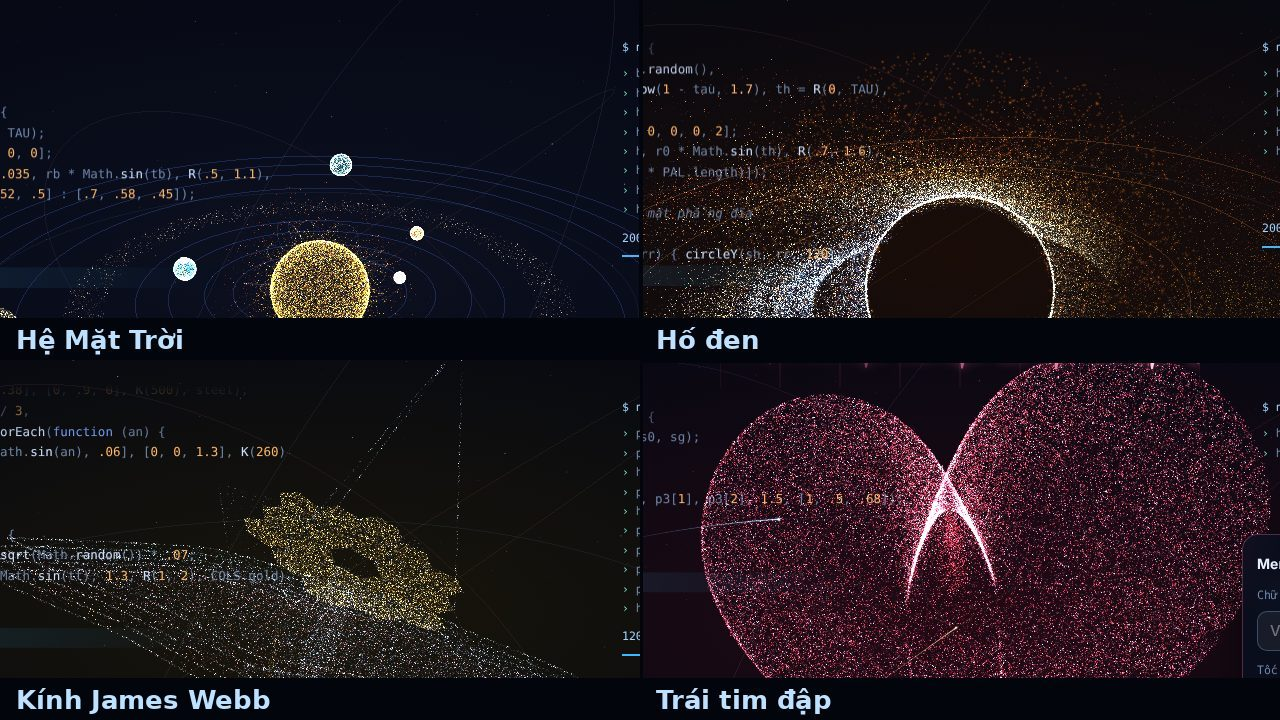
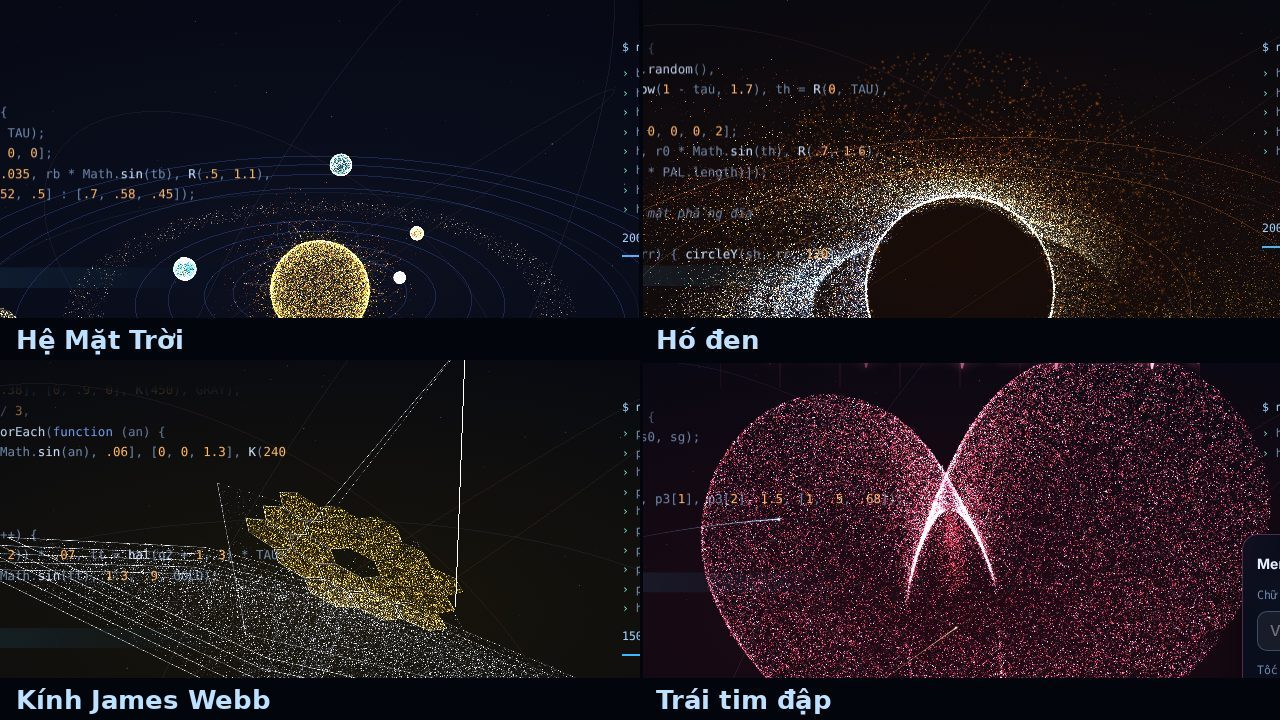
Quỹ đạo: kính James Webb 150.000 hạt, viền đủ các cạnh, màu thật, bớt nhiễu
Claude-Session: https://claude.ai/code/session_01WjocpLNyqEoMhycKB6eQ6X

Changed region(s): [[0.0, 0.6722, 0.4375, 0.9472], [0.0, 0.6111, 0.2188, 0.6417]]

diff --git a/public/archive/files/quy-dao/quy-dao.html b/public/archive/files/quy-dao/quy-dao.html
@@ -484,57 +484,53 @@ canvas.drag { cursor: grabbing; }
   }
   function jwst() {
     var sh = new Shape(); sh.T = function (v) { return rotXZ(rotY(v, -.6), .42, 0); };
-    // chỉ dùng hạt, không dùng đường kẻ: mặt phẳng, thanh và khung đều là hạt dày
-    var rod = function (a, b, n, col, size) { for (var i = 0; i < n; i++) { var t = Math.random(); sh.pt(a[0] + (b[0] - a[0]) * t, a[1] + (b[1] - a[1]) * t, a[2] + (b[2] - a[2]) * t, size || R(.9, 1.5), col); } };
-    var panel = function (o, a, b, n, col, size) { for (var i = 0; i < n; i++) { var u = Math.random(), v = Math.random(); sh.pt(o[0] + a[0] * u + b[0] * v, o[1] + a[1] * u + b[1] * v, o[2] + a[2] * u + b[2] * v, size || R(.6, 1.2), col); } };
-    var steel = [.62, .7, .82], slate = [.3, .35, .46];
-    // 1. tấm chắn nắng 5 lớp hình diều (21 x 14 m): lớp dưới hướng Mặt Trời nóng nhất, các lớp trên nguội dần
+    var SILVER = [.84, .87, .94], GOLD = [1, .79, .34], GRAY = [.58, .62, .7], SOLAR = [.33, .44, .78];   // bốn màu thật của kính
+    // Halton: rải điểm đều trên mặt, không vón cục nên không bị nhiễu hạt
+    var hal = function (i, b) { var f = 1, r = 0; while (i > 0) { f /= b; r += f * (i % b); i = Math.floor(i / b); } return r; };
+    var hc = 0;
+    var panel = function (o, a, b, n, col) { for (var i = 0; i < n; i++, hc++) { var u = hal(hc + 1, 2), v = hal(hc + 1, 3); sh.pt(o[0] + a[0] * u + b[0] * v, o[1] + a[1] * u + b[1] * v, o[2] + a[2] * u + b[2] * v, .85, col); } };
+    var line = function (a, b, n, col, size) { for (var i = 0; i <= n; i++) { var t = i / n; sh.pt(a[0] + (b[0] - a[0]) * t, a[1] + (b[1] - a[1]) * t, a[2] + (b[2] - a[2]) * t, size || 1.1, col); } sh.seg(a, b); };   // viền: hạt đều tay + đường kẻ
+    // 1. tấm chắn nắng 5 lớp hình diều (21 x 14 m), viền sáng đủ cả sáu cạnh
     var P = [[-1.9, 0], [-.65, .95], [.65, .95], [1.9, 0], [.65, -.95], [-.65, -.95]];
-    var LAYER = [[1, .68, .52], [.98, .64, .84], [.8, .68, 1], [.68, .78, 1], [.62, .9, 1]];
+    var inside = function (x, z) { var s = 1.9 - Math.abs(x); return Math.abs(z) <= (Math.abs(x) < .65 ? .95 : .95 * s / 1.25); };
     var wave = function (x, z) { return .04 * (1 - x * x / 3.6 - z * z / .9) + .008 * Math.sin(5 * x + 3 * z); };
     for (var L = 0; L < 5; L++) {
-      var y = L * .05, k = 1 - L * .014, col = LAYER[L];
-      for (var i = 0; i < K(9000); i++) {
-        var t = Math.floor(Math.random() * 6), A = P[t], B = P[(t + 1) % 6], u = Math.random(), v = Math.random(); if (u + v > 1) { u = 1 - u; v = 1 - v; }
-        var x = k * (A[0] * u + B[0] * v), z = k * (A[1] * u + B[1] * v); sh.pt(x, y + wave(x, z), z, R(.6, 1.2), col);
-      }
-      for (var e = 0; e < 6; e++) {                                                          // mép sáng đều cả sáu cạnh
-        var a0 = P[e], b0 = P[(e + 1) % 6];
-        for (var n = 0; n < K(260); n++) { var f = Math.random(), ex = k * (a0[0] + (b0[0] - a0[0]) * f), ez = k * (a0[1] + (b0[1] - a0[1]) * f); sh.pt(ex, y + wave(ex, ez), ez, R(1, 1.8), COLS.white); }
-      }
+      var y = L * .05, k = 1 - L * .014, h = 0, i = 1;
+      while (h < K(11000)) { var x = (hal(i, 2) * 2 - 1) * 1.9 * k, z = (hal(i, 3) * 2 - 1) * .95 * k; i++; if (inside(x / k, z / k)) { sh.pt(x, y + wave(x, z), z, .8, SILVER); h++; } }
+      for (var e = 0; e < 6; e++) { var a0 = P[e], b0 = P[(e + 1) % 6]; line([k * a0[0], y + wave(k * a0[0], k * a0[1]), k * a0[1]], [k * b0[0], y + wave(k * b0[0], k * b0[1]), k * b0[1]], K(220), COLS.white, 1.3); }
     }
-    [[1.9, 0], [-1.9, 0], [0, .95], [0, -.95]].forEach(function (p) { rod([p[0] * .94, .02, p[1] * .94], [p[0] * 1.1, .02, p[1] * 1.1], K(60), steel, 1.3); });   // thanh căng
+    [[1.9, 0], [-1.9, 0], [0, .95], [0, -.95]].forEach(function (p) { line([p[0] * .94, .02, p[1] * .94], [p[0] * 1.1, .02, p[1] * 1.1], K(30), GRAY, 1.3); });   // thanh căng
     // 2. tháp nối, xuyên qua tâm các lớp chắn nắng
-    for (var h = 0; h < K(3200); h++) { var th = R(0, TAU); sh.pt(.07 * Math.cos(th), R(-.5, .5), .07 * Math.sin(th), R(.8, 1.3), steel); }
-    // 3. thân vệ tinh phía nóng: hộp, tấm pin mặt trời, ăng-ten, cánh cân bằng
-    panel([-.34, -.56, -.26], [.68, 0, 0], [0, 0, .52], K(1500), slate); panel([-.34, -.26, -.26], [.68, 0, 0], [0, 0, .52], K(1500), steel);
-    panel([-.34, -.56, -.26], [.68, 0, 0], [0, .3, 0], K(1000), steel); panel([-.34, -.56, .26], [.68, 0, 0], [0, .3, 0], K(1000), steel);
-    panel([-.34, -.56, -.26], [0, 0, .52], [0, .3, 0], K(800), steel); panel([.34, -.56, -.26], [0, 0, .52], [0, .3, 0], K(800), steel);
-    panel([.36, -.42, -.3], [.8, 0, 0], [0, 0, .6], K(3600), [.35, .5, 1]);
-    panel([.36, -.42, -.3], [.8, 0, 0], [0, 0, .06], K(300), COLS.gold);
-    for (var d = 0; d < K(500); d++) { var dt = R(0, TAU), dr = Math.sqrt(Math.random()) * .12; sh.pt(-.12 + dr * Math.cos(dt), -.6, dr * Math.sin(dt), R(1, 1.8), COLS.white); }
-    rod([0, -.4, -.26], [0, -.4, -.75], K(120), steel); panel([-.02, -.2, -.85], [.04, 0, 0], [0, -.4, .2], K(500), COLS.amber);
-    // 4. kính: gương chính 18 mảnh lục giác mạ vàng, lưng gương, ba thanh đỡ gương phụ
+    for (var j = 0; j < K(2800); j++) { var th = hal(j + 1, 2) * TAU; sh.pt(.07 * Math.cos(th), -.5 + hal(j + 1, 3), .07 * Math.sin(th), .85, GRAY); }
+    // 3. thân vệ tinh phía nóng, tấm pin mặt trời, ăng-ten, cánh cân bằng
+    var B = [-.34, -.56, -.26], bw = [.68, 0, 0], bh = [0, .3, 0], bd = [0, 0, .52];
+    panel(B, bw, bd, K(1400), GRAY); panel([B[0], B[1] + .3, B[2]], bw, bd, K(1400), GRAY);
+    panel(B, bw, bh, K(900), GRAY); panel([B[0], B[1], B[2] + .52], bw, bh, K(900), GRAY); panel(B, bd, bh, K(700), GRAY); panel([B[0] + .68, B[1], B[2]], bd, bh, K(700), GRAY);
+    panel([.36, -.42, -.3], [.8, 0, 0], [0, 0, .6], K(3200), SOLAR);
+    for (var d = 0; d < K(500); d++) { var dr = Math.sqrt(hal(d + 1, 2)) * .12, dt = hal(d + 1, 3) * TAU; sh.pt(-.12 + dr * Math.cos(dt), -.6, dr * Math.sin(dt), .9, SILVER); }
+    line([0, -.4, -.26], [0, -.4, -.75], K(100), GRAY); panel([-.02, -.2, -.85], [.04, 0, 0], [0, -.4, .2], K(500), GRAY);
+    // 4. kính: gương chính 18 mảnh lục giác mạ vàng hơi lõm, lưng gương, ba thanh đỡ gương phụ
     sub(sh, function (v) { var w = rotXZ(v, -1.31, 0); return [w[0], w[1] + .56, w[2] + .05]; }, function () {
-      var s = .15, d2 = Math.sqrt(3) * s * 1.025, cs = [], gold = function () { return Math.random() < .55 ? COLS.gold : COLS.hot; };
+      var s = .15, d2 = Math.sqrt(3) * s * 1.025, cs = [];
       for (var k2 = 0; k2 < 6; k2++) { var a2 = k2 * Math.PI / 3; cs.push([d2 * Math.cos(a2), d2 * Math.sin(a2)]); }
       for (var k3 = 0; k3 < 6; k3++) { var a3 = k3 * Math.PI / 3; cs.push([2 * d2 * Math.cos(a3), 2 * d2 * Math.sin(a3)]); cs.push([Math.sqrt(3) * d2 * Math.cos(a3 + Math.PI / 6), Math.sqrt(3) * d2 * Math.sin(a3 + Math.PI / 6)]); }
       sub(sh, function (v) { return [v[0], v[1], v[2] + .1 * (v[0] * v[0] + v[1] * v[1])]; }, function () {   // mặt gương hơi lõm
         cs.forEach(function (c) {
-          for (var i = 0; i < K(1500); i++) {
-            var t = Math.floor(Math.random() * 6), a = Math.PI / 6 + t * Math.PI / 3, b = a + Math.PI / 3, u = Math.random(), v = Math.random(); if (u + v > 1) { u = 1 - u; v = 1 - v; }
-            sh.pt(c[0] + s * .96 * (Math.cos(a) * u + Math.cos(b) * v), c[1] + s * .96 * (Math.sin(a) * u + Math.sin(b) * v), 0, R(.7, 1.3), gold());
+          var V = []; for (var q = 0; q < 6; q++) { var an = Math.PI / 6 + q * Math.PI / 3; V.push([c[0] + s * .97 * Math.cos(an), c[1] + s * .97 * Math.sin(an), 0]); }
+          for (var i2 = 0; i2 < K(1800); i2++) {
+            var t = (i2 % 3) * 2, j2 = Math.floor(i2 / 3) + 1, u = hal(j2, 2), v = hal(j2, 3);   // sáu cạnh chia thành ba hình thoi, mỗi hình rải đều
+            sh.pt(c[0] + (V[t][0] - c[0]) * u + (V[(t + 2) % 6][0] - c[0]) * v, c[1] + (V[t][1] - c[1]) * u + (V[(t + 2) % 6][1] - c[1]) * v, 0, .85, GOLD);
           }
-          for (var e = 0; e < 6; e++) { var ea = Math.PI / 6 + e * Math.PI / 3, eb = ea + Math.PI / 3; rod([c[0] + s * .96 * Math.cos(ea), c[1] + s * .96 * Math.sin(ea), 0], [c[0] + s * .96 * Math.cos(eb), c[1] + s * .96 * Math.sin(eb), 0], K(16), COLS.white, 1.2); }
+          for (var e = 0; e < 6; e++) line(V[e], V[(e + 1) % 6], K(18), COLS.hot, 1.2);                  // viền từng mảnh gương
         });
       });
-      panel([-.7, -.78, -.12], [1.4, 0, 0], [0, 1.56, 0], K(4500), slate);                         // lưng gương và hai cánh gập
-      rod([-.7, -.78, -.12], [.7, -.78, -.12], K(120), steel); rod([-.7, .78, -.12], [.7, .78, -.12], K(120), steel);
-      rod([-.7, -.78, -.12], [-.7, .78, -.12], K(120), steel); rod([.7, -.78, -.12], [.7, .78, -.12], K(120), steel);
-      panel([-.3, -.45, -.5], [.6, 0, 0], [0, .9, 0], K(1500), [.4, .45, .58]);                      // khối thiết bị khoa học phía sau
-      panel([-.3, -.45, -.12], [0, 0, -.38], [0, .9, 0], K(500), steel); panel([.3, -.45, -.12], [0, 0, -.38], [0, .9, 0], K(500), steel);
-      [Math.PI / 2, Math.PI / 2 + TAU / 3, Math.PI / 2 + 2 * TAU / 3].forEach(function (an) { rod([.6 * Math.cos(an), .6 * Math.sin(an), .06], [0, 0, 1.3], K(260), steel, 1.1); });   // ba thanh đỡ gương phụ
-      for (var q = 0; q < K(700); q++) { var tt = R(0, TAU), rr = Math.sqrt(Math.random()) * .07; sh.pt(rr * Math.cos(tt), rr * Math.sin(tt), 1.3, R(1, 2), COLS.gold); }
+      var fx = .7, fy = .78;                                                                           // khung lưng gương
+      panel([-fx, -fy, -.12], [2 * fx, 0, 0], [0, 2 * fy, 0], K(4000), GRAY);
+      [[-fx, -fy, fx, -fy], [-fx, fy, fx, fy], [-fx, -fy, -fx, fy], [fx, -fy, fx, fy]].forEach(function (e) { line([e[0], e[1], -.12], [e[2], e[3], -.12], K(130), SILVER, 1.2); });
+      panel([-.3, -.45, -.5], [.6, 0, 0], [0, .9, 0], K(1300), GRAY);                                  // khối thiết bị khoa học phía sau
+      panel([-.3, -.45, -.12], [0, 0, -.38], [0, .9, 0], K(450), GRAY); panel([.3, -.45, -.12], [0, 0, -.38], [0, .9, 0], K(450), GRAY);
+      [Math.PI / 2, Math.PI / 2 + TAU / 3, Math.PI / 2 + 2 * TAU / 3].forEach(function (an) { line([.6 * Math.cos(an), .6 * Math.sin(an), .06], [0, 0, 1.3], K(240), SILVER, 1.1); });   // ba thanh đỡ gương phụ
+      for (var q2 = 0; q2 < K(600); q2++) { var rr = Math.sqrt(hal(q2 + 1, 2)) * .07, tt = hal(q2 + 1, 3) * TAU; sh.pt(rr * Math.cos(tt), rr * Math.sin(tt), 1.3, .9, GOLD); }
     });
     return sh;
   }
@@ -728,7 +724,7 @@ canvas.drag { cursor: grabbing; }
     { fn: iss, n: 200000, file: "iss.js", name: "Trạm vũ trụ quốc tế (ISS)", sub: "Dài khoảng 109 m, bay ở độ cao khoảng 400 km, mỗi ngày quay quanh Trái Đất khoảng 16 vòng", tint: "#08172b", tilt: [0, 0], lc: BASE_LC, build: function () { return dbl(iss); } },
     { fn: starship, n: 200000, file: "starship.js", name: "Starship và Super Heavy", sub: "Cao khoảng 121 m, đường kính 9 m, bộ tên lửa tái sử dụng hoàn toàn của SpaceX", tint: "#10151f", tilt: [0, 0], lc: BASE_LC, build: function () { return dbl(starship); } },
     { fn: saturnV, n: 200000, file: "saturn_v.js", name: "Saturn V", sub: "Cao 110,6 m, đưa người Mỹ lên Mặt Trăng trong chương trình Apollo", tint: "#18130f", tilt: [0, 0], lc: BASE_LC, build: function () { return dbl(saturnV); } },
-    { fn: jwst, n: 120000, file: "jwst.js", name: "Kính thiên văn James Webb", sub: "Gương chính 6,5 m gồm 18 mảnh mạ vàng, đặt cách Trái Đất khoảng 1,5 triệu km", tint: "#19150a", tilt: [0, 0], lc: BASE_LC, build: function () { return dbl(jwst); } },
+    { fn: jwst, n: 150000, calm: 1, file: "jwst.js", name: "Kính thiên văn James Webb", sub: "Gương chính 6,5 m gồm 18 mảnh mạ vàng, đặt cách Trái Đất khoảng 1,5 triệu km", tint: "#19150a", tilt: [0, 0], lc: [.84, .87, .94], build: function () { return dbl(jwst); } },
     { fn: galaxy, n: 200000, file: "galaxy.js", name: "Thiên hà xoắn ốc", sub: "Bốn cánh tay xoắn ốc quanh nhân sáng, giống dải Ngân Hà của chúng ta", tint: "#150b24", tilt: [0, 0], lc: BASE_LC, build: function () { return dbl(galaxy); } },
     { fn: blackhole, n: 200000, file: "black_hole.js", name: "Hố đen", sub: "Bóng tối ở giữa, đĩa vật chất xoay quanh, ánh sáng bị uốn cong thành vành, hạt bị kéo dãn rơi vào trong", tint: "#1a0d08", tilt: [.45, .05], lc: [1, .6, .25], build: function () { return dbl(blackhole); } },
     { fn: sputnik, n: 100000, file: "sputnik.js", name: "Sputnik 1", sub: "Vệ tinh nhân tạo đầu tiên, phóng năm 1957, hình cầu rộng khoảng 58 cm", tint: "#0a1226", tilt: [0, 0], lc: BASE_LC, build: function () { return dbl(sputnik); } },
@@ -830,7 +826,7 @@ canvas.drag { cursor: grabbing; }
   var shapes = [], motionOn = false, monS = 0;
   function getShape(i) { if (!shapes[i]) { CNT = META[i].n; D = CNT / 100000; shapes[i] = finalize(META[i].build(), i === HI, CNT); } return shapes[i]; }
   var V3 = function (a, b, c) { return new THREE.Vector3(a, b, c); };
-  var U = { uMix: { value: 0 }, uTime: { value: 0 }, uMT: { value: 0 }, uMon: { value: 0 }, uPx: { value: dpr }, uRot: { value: 0 }, uShadow: { value: .5 },
+  var U = { uMix: { value: 0 }, uTime: { value: 0 }, uMT: { value: 0 }, uMon: { value: 0 }, uPx: { value: dpr }, uKA: { value: 0 }, uKB: { value: 0 }, uRot: { value: 0 }, uShadow: { value: .5 },
     uTA: { value: new THREE.Vector2() }, uTB: { value: new THREE.Vector2() }, uCR: { value: V3(1, 0, 0) }, uCU: { value: V3(0, 1, 0) }, uCF: { value: V3(0, 0, 1) },
     uLA: { value: V3(.45, .72, 1) }, uLB: { value: V3(.45, .72, 1) }, uBeat: { value: 0 }, uHA: { value: 0 }, uHB: { value: 0 }, uGain: { value: .8 } };
 
@@ -841,14 +837,14 @@ canvas.drag { cursor: grabbing; }
     uniforms: U, transparent: true, depthWrite: false, blending: THREE.AdditiveBlending,
     vertexShader: [
       "attribute vec3 aA;attribute vec3 aB;attribute vec4 aSA;attribute vec4 aSB;attribute vec4 aMA;attribute vec4 aMB;attribute vec4 aPA;attribute vec4 aPB;attribute float aR;",
-      "uniform float uMix,uTime,uMT,uMon,uPx,uBeat,uHA,uHB,uShadow;uniform vec2 uTA,uTB;varying vec3 vCol;varying float vAl;varying vec3 vSt;",
+      "uniform float uMix,uTime,uMT,uMon,uPx,uBeat,uHA,uHB,uShadow,uKA,uKB;uniform vec2 uTA,uTB;varying vec3 vCol;varying float vAl;varying vec3 vSt;",
       GLM,
       "void main(){float m=clamp((uMix-aR*.45)/.55,0.,1.);m=m*m*(3.-2.*m);float sw=sin(3.14159*m);",
       " float fa,fb,f2;vec3 pa=place(aA,aMA,aPA,uTA,uMT,fa),pb=place(aB,aMB,aPB,uTB,uMT,fb);vec3 p=mix(pa,pb,m);",
       " float sA=step(4.5,aMA.z)*step(aMA.z,5.5),sB=step(4.5,aMB.z)*step(aMB.z,5.5),sM=mix(sA,sB,m);vec3 dp=vec3(0.);",
       " if(sA+sB>.5){vec3 qa=place(aA,aMA,aPA,uTA,uMT+.08,f2),qb=place(aB,aMB,aPB,uTB,uMT+.08,f2);dp=mix((qa-pa)*sA,(qb-pb)*sB,m);}",
       " p+=vec3(sin(aR*61.+uTime*1.7),cos(aR*43.+uTime*1.3),sin(aR*29.-uTime*1.5))*sw*.55;",
-      " p+=vec3(sin(uTime*.9+aR*91.),cos(uTime*.8+aR*57.),sin(uTime*1.1+aR*33.))*.004;p*=1.+mix(uHA,uHB,m)*uBeat*.085;",
+      " float cm=mix(uKA,uKB,m);p+=vec3(sin(uTime*.9+aR*91.),cos(uTime*.8+aR*57.),sin(uTime*1.1+aR*33.))*.004*(1.-cm);p*=1.+mix(uHA,uHB,m)*uBeat*.085;",
       "",
       " float occ=mix(step(1.5,aPA.w)*step(aPA.w,2.5),step(1.5,aPB.w)*step(aPB.w,2.5),m);",
       " vec3 vv=(modelViewMatrix*vec4(vec3(p.z,0.,-p.x),0.)).xyz;float dop=clamp(vv.z/(length(vv)+1e-4),-1.,1.)*occ;",
@@ -857,7 +853,7 @@ canvas.drag { cursor: grabbing; }
       " dop+=mix(step(.5,aPA.w)*step(aPA.w,1.5),step(.5,aPB.w)*step(aPB.w,1.5),m)*step(8.5,mix(aMA.z,aMB.z,m))*clamp(-(mv.x-cv.x)/(.9*sc),-1.,1.);",
       " float vis=1.-occ*step(mv.z,cv.z)*(1.-smoothstep(uShadow*sc*.96,uShadow*sc*1.05,dist));",
       " vec4 S=mix(aSA,aSB,m);vCol=S.yzw*vec3(1.-.2*dop,1.-.04*dop,1.+.3*dop)*(1.+.6*dop);",
-      " vAl=(.72+.28*sin(uTime*2.2+aR*140.))*vis*mix(1.,mix(fa,fb,m),uMon);",
+      " vAl=mix(.8+.12*sin(uTime*2.2+aR*140.),.95,cm)*vis*mix(1.,mix(fa,fb,m),uMon);",
       " vec2 vd=(modelViewMatrix*vec4(dp,0.)).xy;float vl=length(vd);vSt=vec3(vl>1e-5?vd/vl:vec2(1.,0.),clamp(vl*16.,0.,3.4)*uMon*sM);",
       " gl_PointSize=S.x*uPx*(1.+sw*.5+mix(uHA,uHB,m)*uBeat*.7)*(4.8/-mv.z)*1.5*(1.+vSt.z*.7);gl_Position=projectionMatrix*mv;}"
     ].join("\n"),
@@ -937,6 +933,7 @@ canvas.drag { cursor: grabbing; }
     pg.setAttribute("aMA", A.MA); pg.setAttribute("aMB", B.MA); pg.setAttribute("aPA", A.PA); pg.setAttribute("aPB", B.PA);
     lg.setAttribute("aA", A.lp); lg.setAttribute("aB", B.lp); lg.setAttribute("aMA", A.lM); lg.setAttribute("aMB", B.lM); lg.setAttribute("aPA", A.lP); lg.setAttribute("aPB", B.lP);
     pg.setDrawRange(0, Math.max(A.n, B.n));
+    U.uKA.value = ma.calm ? 1 : 0; U.uKB.value = mb.calm ? 1 : 0;
     U.uHA.value = a === HI ? 1 : 0; U.uHB.value = b === HI ? 1 : 0;
     U.uTA.value.set(ma.tilt[0], ma.tilt[1]); U.uTB.value.set(mb.tilt[0], mb.tilt[1]);
     U.uLA.value.set(ma.lc[0], ma.lc[1], ma.lc[2]); U.uLB.value.set(mb.lc[0], mb.lc[1], mb.lc[2]);

diff --git a/public/quy-dao/index.html b/public/quy-dao/index.html
@@ -484,57 +484,53 @@ canvas.drag { cursor: grabbing; }
   }
   function jwst() {
     var sh = new Shape(); sh.T = function (v) { return rotXZ(rotY(v, -.6), .42, 0); };
-    // chỉ dùng hạt, không dùng đường kẻ: mặt phẳng, thanh và khung đều là hạt dày
-    var rod = function (a, b, n, col, size) { for (var i = 0; i < n; i++) { var t = Math.random(); sh.pt(a[0] + (b[0] - a[0]) * t, a[1] + (b[1] - a[1]) * t, a[2] + (b[2] - a[2]) * t, size || R(.9, 1.5), col); } };
-    var panel = function (o, a, b, n, col, size) { for (var i = 0; i < n; i++) { var u = Math.random(), v = Math.random(); sh.pt(o[0] + a[0] * u + b[0] * v, o[1] + a[1] * u + b[1] * v, o[2] + a[2] * u + b[2] * v, size || R(.6, 1.2), col); } };
-    var steel = [.62, .7, .82], slate = [.3, .35, .46];
-    // 1. tấm chắn nắng 5 lớp hình diều (21 x 14 m): lớp dưới hướng Mặt Trời nóng nhất, các lớp trên nguội dần
+    var SILVER = [.84, .87, .94], GOLD = [1, .79, .34], GRAY = [.58, .62, .7], SOLAR = [.33, .44, .78];   // bốn màu thật của kính
+    // Halton: rải điểm đều trên mặt, không vón cục nên không bị nhiễu hạt
+    var hal = function (i, b) { var f = 1, r = 0; while (i > 0) { f /= b; r += f * (i % b); i = Math.floor(i / b); } return r; };
+    var hc = 0;
+    var panel = function (o, a, b, n, col) { for (var i = 0; i < n; i++, hc++) { var u = hal(hc + 1, 2), v = hal(hc + 1, 3); sh.pt(o[0] + a[0] * u + b[0] * v, o[1] + a[1] * u + b[1] * v, o[2] + a[2] * u + b[2] * v, .85, col); } };
+    var line = function (a, b, n, col, size) { for (var i = 0; i <= n; i++) { var t = i / n; sh.pt(a[0] + (b[0] - a[0]) * t, a[1] + (b[1] - a[1]) * t, a[2] + (b[2] - a[2]) * t, size || 1.1, col); } sh.seg(a, b); };   // viền: hạt đều tay + đường kẻ
+    // 1. tấm chắn nắng 5 lớp hình diều (21 x 14 m), viền sáng đủ cả sáu cạnh
     var P = [[-1.9, 0], [-.65, .95], [.65, .95], [1.9, 0], [.65, -.95], [-.65, -.95]];
-    var LAYER = [[1, .68, .52], [.98, .64, .84], [.8, .68, 1], [.68, .78, 1], [.62, .9, 1]];
+    var inside = function (x, z) { var s = 1.9 - Math.abs(x); return Math.abs(z) <= (Math.abs(x) < .65 ? .95 : .95 * s / 1.25); };
     var wave = function (x, z) { return .04 * (1 - x * x / 3.6 - z * z / .9) + .008 * Math.sin(5 * x + 3 * z); };
     for (var L = 0; L < 5; L++) {
-      var y = L * .05, k = 1 - L * .014, col = LAYER[L];
-      for (var i = 0; i < K(9000); i++) {
-        var t = Math.floor(Math.random() * 6), A = P[t], B = P[(t + 1) % 6], u = Math.random(), v = Math.random(); if (u + v > 1) { u = 1 - u; v = 1 - v; }
-        var x = k * (A[0] * u + B[0] * v), z = k * (A[1] * u + B[1] * v); sh.pt(x, y + wave(x, z), z, R(.6, 1.2), col);
-      }
-      for (var e = 0; e < 6; e++) {                                                          // mép sáng đều cả sáu cạnh
-        var a0 = P[e], b0 = P[(e + 1) % 6];
-        for (var n = 0; n < K(260); n++) { var f = Math.random(), ex = k * (a0[0] + (b0[0] - a0[0]) * f), ez = k * (a0[1] + (b0[1] - a0[1]) * f); sh.pt(ex, y + wave(ex, ez), ez, R(1, 1.8), COLS.white); }
-      }
+      var y = L * .05, k = 1 - L * .014, h = 0, i = 1;
+      while (h < K(11000)) { var x = (hal(i, 2) * 2 - 1) * 1.9 * k, z = (hal(i, 3) * 2 - 1) * .95 * k; i++; if (inside(x / k, z / k)) { sh.pt(x, y + wave(x, z), z, .8, SILVER); h++; } }
+      for (var e = 0; e < 6; e++) { var a0 = P[e], b0 = P[(e + 1) % 6]; line([k * a0[0], y + wave(k * a0[0], k * a0[1]), k * a0[1]], [k * b0[0], y + wave(k * b0[0], k * b0[1]), k * b0[1]], K(220), COLS.white, 1.3); }
     }
-    [[1.9, 0], [-1.9, 0], [0, .95], [0, -.95]].forEach(function (p) { rod([p[0] * .94, .02, p[1] * .94], [p[0] * 1.1, .02, p[1] * 1.1], K(60), steel, 1.3); });   // thanh căng
+    [[1.9, 0], [-1.9, 0], [0, .95], [0, -.95]].forEach(function (p) { line([p[0] * .94, .02, p[1] * .94], [p[0] * 1.1, .02, p[1] * 1.1], K(30), GRAY, 1.3); });   // thanh căng
     // 2. tháp nối, xuyên qua tâm các lớp chắn nắng
-    for (var h = 0; h < K(3200); h++) { var th = R(0, TAU); sh.pt(.07 * Math.cos(th), R(-.5, .5), .07 * Math.sin(th), R(.8, 1.3), steel); }
-    // 3. thân vệ tinh phía nóng: hộp, tấm pin mặt trời, ăng-ten, cánh cân bằng
-    panel([-.34, -.56, -.26], [.68, 0, 0], [0, 0, .52], K(1500), slate); panel([-.34, -.26, -.26], [.68, 0, 0], [0, 0, .52], K(1500), steel);
-    panel([-.34, -.56, -.26], [.68, 0, 0], [0, .3, 0], K(1000), steel); panel([-.34, -.56, .26], [.68, 0, 0], [0, .3, 0], K(1000), steel);
-    panel([-.34, -.56, -.26], [0, 0, .52], [0, .3, 0], K(800), steel); panel([.34, -.56, -.26], [0, 0, .52], [0, .3, 0], K(800), steel);
-    panel([.36, -.42, -.3], [.8, 0, 0], [0, 0, .6], K(3600), [.35, .5, 1]);
-    panel([.36, -.42, -.3], [.8, 0, 0], [0, 0, .06], K(300), COLS.gold);
-    for (var d = 0; d < K(500); d++) { var dt = R(0, TAU), dr = Math.sqrt(Math.random()) * .12; sh.pt(-.12 + dr * Math.cos(dt), -.6, dr * Math.sin(dt), R(1, 1.8), COLS.white); }
-    rod([0, -.4, -.26], [0, -.4, -.75], K(120), steel); panel([-.02, -.2, -.85], [.04, 0, 0], [0, -.4, .2], K(500), COLS.amber);
-    // 4. kính: gương chính 18 mảnh lục giác mạ vàng, lưng gương, ba thanh đỡ gương phụ
+    for (var j = 0; j < K(2800); j++) { var th = hal(j + 1, 2) * TAU; sh.pt(.07 * Math.cos(th), -.5 + hal(j + 1, 3), .07 * Math.sin(th), .85, GRAY); }
+    // 3. thân vệ tinh phía nóng, tấm pin mặt trời, ăng-ten, cánh cân bằng
+    var B = [-.34, -.56, -.26], bw = [.68, 0, 0], bh = [0, .3, 0], bd = [0, 0, .52];
+    panel(B, bw, bd, K(1400), GRAY); panel([B[0], B[1] + .3, B[2]], bw, bd, K(1400), GRAY);
+    panel(B, bw, bh, K(900), GRAY); panel([B[0], B[1], B[2] + .52], bw, bh, K(900), GRAY); panel(B, bd, bh, K(700), GRAY); panel([B[0] + .68, B[1], B[2]], bd, bh, K(700), GRAY);
+    panel([.36, -.42, -.3], [.8, 0, 0], [0, 0, .6], K(3200), SOLAR);
+    for (var d = 0; d < K(500); d++) { var dr = Math.sqrt(hal(d + 1, 2)) * .12, dt = hal(d + 1, 3) * TAU; sh.pt(-.12 + dr * Math.cos(dt), -.6, dr * Math.sin(dt), .9, SILVER); }
+    line([0, -.4, -.26], [0, -.4, -.75], K(100), GRAY); panel([-.02, -.2, -.85], [.04, 0, 0], [0, -.4, .2], K(500), GRAY);
+    // 4. kính: gương chính 18 mảnh lục giác mạ vàng hơi lõm, lưng gương, ba thanh đỡ gương phụ
     sub(sh, function (v) { var w = rotXZ(v, -1.31, 0); return [w[0], w[1] + .56, w[2] + .05]; }, function () {
-      var s = .15, d2 = Math.sqrt(3) * s * 1.025, cs = [], gold = function () { return Math.random() < .55 ? COLS.gold : COLS.hot; };
+      var s = .15, d2 = Math.sqrt(3) * s * 1.025, cs = [];
       for (var k2 = 0; k2 < 6; k2++) { var a2 = k2 * Math.PI / 3; cs.push([d2 * Math.cos(a2), d2 * Math.sin(a2)]); }
       for (var k3 = 0; k3 < 6; k3++) { var a3 = k3 * Math.PI / 3; cs.push([2 * d2 * Math.cos(a3), 2 * d2 * Math.sin(a3)]); cs.push([Math.sqrt(3) * d2 * Math.cos(a3 + Math.PI / 6), Math.sqrt(3) * d2 * Math.sin(a3 + Math.PI / 6)]); }
       sub(sh, function (v) { return [v[0], v[1], v[2] + .1 * (v[0] * v[0] + v[1] * v[1])]; }, function () {   // mặt gương hơi lõm
         cs.forEach(function (c) {
-          for (var i = 0; i < K(1500); i++) {
-            var t = Math.floor(Math.random() * 6), a = Math.PI / 6 + t * Math.PI / 3, b = a + Math.PI / 3, u = Math.random(), v = Math.random(); if (u + v > 1) { u = 1 - u; v = 1 - v; }
-            sh.pt(c[0] + s * .96 * (Math.cos(a) * u + Math.cos(b) * v), c[1] + s * .96 * (Math.sin(a) * u + Math.sin(b) * v), 0, R(.7, 1.3), gold());
+          var V = []; for (var q = 0; q < 6; q++) { var an = Math.PI / 6 + q * Math.PI / 3; V.push([c[0] + s * .97 * Math.cos(an), c[1] + s * .97 * Math.sin(an), 0]); }
+          for (var i2 = 0; i2 < K(1800); i2++) {
+            var t = (i2 % 3) * 2, j2 = Math.floor(i2 / 3) + 1, u = hal(j2, 2), v = hal(j2, 3);   // sáu cạnh chia thành ba hình thoi, mỗi hình rải đều
+            sh.pt(c[0] + (V[t][0] - c[0]) * u + (V[(t + 2) % 6][0] - c[0]) * v, c[1] + (V[t][1] - c[1]) * u + (V[(t + 2) % 6][1] - c[1]) * v, 0, .85, GOLD);
           }
-          for (var e = 0; e < 6; e++) { var ea = Math.PI / 6 + e * Math.PI / 3, eb = ea + Math.PI / 3; rod([c[0] + s * .96 * Math.cos(ea), c[1] + s * .96 * Math.sin(ea), 0], [c[0] + s * .96 * Math.cos(eb), c[1] + s * .96 * Math.sin(eb), 0], K(16), COLS.white, 1.2); }
+          for (var e = 0; e < 6; e++) line(V[e], V[(e + 1) % 6], K(18), COLS.hot, 1.2);                  // viền từng mảnh gương
         });
       });
-      panel([-.7, -.78, -.12], [1.4, 0, 0], [0, 1.56, 0], K(4500), slate);                         // lưng gương và hai cánh gập
-      rod([-.7, -.78, -.12], [.7, -.78, -.12], K(120), steel); rod([-.7, .78, -.12], [.7, .78, -.12], K(120), steel);
-      rod([-.7, -.78, -.12], [-.7, .78, -.12], K(120), steel); rod([.7, -.78, -.12], [.7, .78, -.12], K(120), steel);
-      panel([-.3, -.45, -.5], [.6, 0, 0], [0, .9, 0], K(1500), [.4, .45, .58]);                      // khối thiết bị khoa học phía sau
-      panel([-.3, -.45, -.12], [0, 0, -.38], [0, .9, 0], K(500), steel); panel([.3, -.45, -.12], [0, 0, -.38], [0, .9, 0], K(500), steel);
-      [Math.PI / 2, Math.PI / 2 + TAU / 3, Math.PI / 2 + 2 * TAU / 3].forEach(function (an) { rod([.6 * Math.cos(an), .6 * Math.sin(an), .06], [0, 0, 1.3], K(260), steel, 1.1); });   // ba thanh đỡ gương phụ
-      for (var q = 0; q < K(700); q++) { var tt = R(0, TAU), rr = Math.sqrt(Math.random()) * .07; sh.pt(rr * Math.cos(tt), rr * Math.sin(tt), 1.3, R(1, 2), COLS.gold); }
+      var fx = .7, fy = .78;                                                                           // khung lưng gương
+      panel([-fx, -fy, -.12], [2 * fx, 0, 0], [0, 2 * fy, 0], K(4000), GRAY);
+      [[-fx, -fy, fx, -fy], [-fx, fy, fx, fy], [-fx, -fy, -fx, fy], [fx, -fy, fx, fy]].forEach(function (e) { line([e[0], e[1], -.12], [e[2], e[3], -.12], K(130), SILVER, 1.2); });
+      panel([-.3, -.45, -.5], [.6, 0, 0], [0, .9, 0], K(1300), GRAY);                                  // khối thiết bị khoa học phía sau
+      panel([-.3, -.45, -.12], [0, 0, -.38], [0, .9, 0], K(450), GRAY); panel([.3, -.45, -.12], [0, 0, -.38], [0, .9, 0], K(450), GRAY);
+      [Math.PI / 2, Math.PI / 2 + TAU / 3, Math.PI / 2 + 2 * TAU / 3].forEach(function (an) { line([.6 * Math.cos(an), .6 * Math.sin(an), .06], [0, 0, 1.3], K(240), SILVER, 1.1); });   // ba thanh đỡ gương phụ
+      for (var q2 = 0; q2 < K(600); q2++) { var rr = Math.sqrt(hal(q2 + 1, 2)) * .07, tt = hal(q2 + 1, 3) * TAU; sh.pt(rr * Math.cos(tt), rr * Math.sin(tt), 1.3, .9, GOLD); }
     });
     return sh;
   }
@@ -728,7 +724,7 @@ canvas.drag { cursor: grabbing; }
     { fn: iss, n: 200000, file: "iss.js", name: "Trạm vũ trụ quốc tế (ISS)", sub: "Dài khoảng 109 m, bay ở độ cao khoảng 400 km, mỗi ngày quay quanh Trái Đất khoảng 16 vòng", tint: "#08172b", tilt: [0, 0], lc: BASE_LC, build: function () { return dbl(iss); } },
     { fn: starship, n: 200000, file: "starship.js", name: "Starship và Super Heavy", sub: "Cao khoảng 121 m, đường kính 9 m, bộ tên lửa tái sử dụng hoàn toàn của SpaceX", tint: "#10151f", tilt: [0, 0], lc: BASE_LC, build: function () { return dbl(starship); } },
     { fn: saturnV, n: 200000, file: "saturn_v.js", name: "Saturn V", sub: "Cao 110,6 m, đưa người Mỹ lên Mặt Trăng trong chương trình Apollo", tint: "#18130f", tilt: [0, 0], lc: BASE_LC, build: function () { return dbl(saturnV); } },
-    { fn: jwst, n: 120000, file: "jwst.js", name: "Kính thiên văn James Webb", sub: "Gương chính 6,5 m gồm 18 mảnh mạ vàng, đặt cách Trái Đất khoảng 1,5 triệu km", tint: "#19150a", tilt: [0, 0], lc: BASE_LC, build: function () { return dbl(jwst); } },
+    { fn: jwst, n: 150000, calm: 1, file: "jwst.js", name: "Kính thiên văn James Webb", sub: "Gương chính 6,5 m gồm 18 mảnh mạ vàng, đặt cách Trái Đất khoảng 1,5 triệu km", tint: "#19150a", tilt: [0, 0], lc: [.84, .87, .94], build: function () { return dbl(jwst); } },
     { fn: galaxy, n: 200000, file: "galaxy.js", name: "Thiên hà xoắn ốc", sub: "Bốn cánh tay xoắn ốc quanh nhân sáng, giống dải Ngân Hà của chúng ta", tint: "#150b24", tilt: [0, 0], lc: BASE_LC, build: function () { return dbl(galaxy); } },
     { fn: blackhole, n: 200000, file: "black_hole.js", name: "Hố đen", sub: "Bóng tối ở giữa, đĩa vật chất xoay quanh, ánh sáng bị uốn cong thành vành, hạt bị kéo dãn rơi vào trong", tint: "#1a0d08", tilt: [.45, .05], lc: [1, .6, .25], build: function () { return dbl(blackhole); } },
     { fn: sputnik, n: 100000, file: "sputnik.js", name: "Sputnik 1", sub: "Vệ tinh nhân tạo đầu tiên, phóng năm 1957, hình cầu rộng khoảng 58 cm", tint: "#0a1226", tilt: [0, 0], lc: BASE_LC, build: function () { return dbl(sputnik); } },
@@ -830,7 +826,7 @@ canvas.drag { cursor: grabbing; }
   var shapes = [], motionOn = false, monS = 0;
   function getShape(i) { if (!shapes[i]) { CNT = META[i].n; D = CNT / 100000; shapes[i] = finalize(META[i].build(), i === HI, CNT); } return shapes[i]; }
   var V3 = function (a, b, c) { return new THREE.Vector3(a, b, c); };
-  var U = { uMix: { value: 0 }, uTime: { value: 0 }, uMT: { value: 0 }, uMon: { value: 0 }, uPx: { value: dpr }, uRot: { value: 0 }, uShadow: { value: .5 },
+  var U = { uMix: { value: 0 }, uTime: { value: 0 }, uMT: { value: 0 }, uMon: { value: 0 }, uPx: { value: dpr }, uKA: { value: 0 }, uKB: { value: 0 }, uRot: { value: 0 }, uShadow: { value: .5 },
     uTA: { value: new THREE.Vector2() }, uTB: { value: new THREE.Vector2() }, uCR: { value: V3(1, 0, 0) }, uCU: { value: V3(0, 1, 0) }, uCF: { value: V3(0, 0, 1) },
     uLA: { value: V3(.45, .72, 1) }, uLB: { value: V3(.45, .72, 1) }, uBeat: { value: 0 }, uHA: { value: 0 }, uHB: { value: 0 }, uGain: { value: .8 } };
 
@@ -841,14 +837,14 @@ canvas.drag { cursor: grabbing; }
     uniforms: U, transparent: true, depthWrite: false, blending: THREE.AdditiveBlending,
     vertexShader: [
       "attribute vec3 aA;attribute vec3 aB;attribute vec4 aSA;attribute vec4 aSB;attribute vec4 aMA;attribute vec4 aMB;attribute vec4 aPA;attribute vec4 aPB;attribute float aR;",
-      "uniform float uMix,uTime,uMT,uMon,uPx,uBeat,uHA,uHB,uShadow;uniform vec2 uTA,uTB;varying vec3 vCol;varying float vAl;varying vec3 vSt;",
+      "uniform float uMix,uTime,uMT,uMon,uPx,uBeat,uHA,uHB,uShadow,uKA,uKB;uniform vec2 uTA,uTB;varying vec3 vCol;varying float vAl;varying vec3 vSt;",
       GLM,
       "void main(){float m=clamp((uMix-aR*.45)/.55,0.,1.);m=m*m*(3.-2.*m);float sw=sin(3.14159*m);",
       " float fa,fb,f2;vec3 pa=place(aA,aMA,aPA,uTA,uMT,fa),pb=place(aB,aMB,aPB,uTB,uMT,fb);vec3 p=mix(pa,pb,m);",
       " float sA=step(4.5,aMA.z)*step(aMA.z,5.5),sB=step(4.5,aMB.z)*step(aMB.z,5.5),sM=mix(sA,sB,m);vec3 dp=vec3(0.);",
       " if(sA+sB>.5){vec3 qa=place(aA,aMA,aPA,uTA,uMT+.08,f2),qb=place(aB,aMB,aPB,uTB,uMT+.08,f2);dp=mix((qa-pa)*sA,(qb-pb)*sB,m);}",
       " p+=vec3(sin(aR*61.+uTime*1.7),cos(aR*43.+uTime*1.3),sin(aR*29.-uTime*1.5))*sw*.55;",
-      " p+=vec3(sin(uTime*.9+aR*91.),cos(uTime*.8+aR*57.),sin(uTime*1.1+aR*33.))*.004;p*=1.+mix(uHA,uHB,m)*uBeat*.085;",
+      " float cm=mix(uKA,uKB,m);p+=vec3(sin(uTime*.9+aR*91.),cos(uTime*.8+aR*57.),sin(uTime*1.1+aR*33.))*.004*(1.-cm);p*=1.+mix(uHA,uHB,m)*uBeat*.085;",
       "",
       " float occ=mix(step(1.5,aPA.w)*step(aPA.w,2.5),step(1.5,aPB.w)*step(aPB.w,2.5),m);",
       " vec3 vv=(modelViewMatrix*vec4(vec3(p.z,0.,-p.x),0.)).xyz;float dop=clamp(vv.z/(length(vv)+1e-4),-1.,1.)*occ;",
@@ -857,7 +853,7 @@ canvas.drag { cursor: grabbing; }
       " dop+=mix(step(.5,aPA.w)*step(aPA.w,1.5),step(.5,aPB.w)*step(aPB.w,1.5),m)*step(8.5,mix(aMA.z,aMB.z,m))*clamp(-(mv.x-cv.x)/(.9*sc),-1.,1.);",
       " float vis=1.-occ*step(mv.z,cv.z)*(1.-smoothstep(uShadow*sc*.96,uShadow*sc*1.05,dist));",
       " vec4 S=mix(aSA,aSB,m);vCol=S.yzw*vec3(1.-.2*dop,1.-.04*dop,1.+.3*dop)*(1.+.6*dop);",
-      " vAl=(.72+.28*sin(uTime*2.2+aR*140.))*vis*mix(1.,mix(fa,fb,m),uMon);",
+      " vAl=mix(.8+.12*sin(uTime*2.2+aR*140.),.95,cm)*vis*mix(1.,mix(fa,fb,m),uMon);",
       " vec2 vd=(modelViewMatrix*vec4(dp,0.)).xy;float vl=length(vd);vSt=vec3(vl>1e-5?vd/vl:vec2(1.,0.),clamp(vl*16.,0.,3.4)*uMon*sM);",
       " gl_PointSize=S.x*uPx*(1.+sw*.5+mix(uHA,uHB,m)*uBeat*.7)*(4.8/-mv.z)*1.5*(1.+vSt.z*.7);gl_Position=projectionMatrix*mv;}"
     ].join("\n"),
@@ -937,6 +933,7 @@ canvas.drag { cursor: grabbing; }
     pg.setAttribute("aMA", A.MA); pg.setAttribute("aMB", B.MA); pg.setAttribute("aPA", A.PA); pg.setAttribute("aPB", B.PA);
     lg.setAttribute("aA", A.lp); lg.setAttribute("aB", B.lp); lg.setAttribute("aMA", A.lM); lg.setAttribute("aMB", B.lM); lg.setAttribute("aPA", A.lP); lg.setAttribute("aPB", B.lP);
     pg.setDrawRange(0, Math.max(A.n, B.n));
+    U.uKA.value = ma.calm ? 1 : 0; U.uKB.value = mb.calm ? 1 : 0;
     U.uHA.value = a === HI ? 1 : 0; U.uHB.value = b === HI ? 1 : 0;
     U.uTA.value.set(ma.tilt[0], ma.tilt[1]); U.uTB.value.set(mb.tilt[0], mb.tilt[1]);
     U.uLA.value.set(ma.lc[0], ma.lc[1], ma.lc[2]); U.uLB.value.set(mb.lc[0], mb.lc[1], mb.lc[2]);

diff --git a/modules/archive/items/quy-dao.md b/modules/archive/items/quy-dao.md
@@ -10,8 +10,8 @@ files:
     url: "/quy-dao/"
   - label: "Tải mã nguồn"
     url: "/archive/files/quy-dao/quy-dao.html"
-    size: "98 KB"
[1 lines of base64/hex data omitted]
+    size: "97 KB"
[1 lines of base64/hex data omitted]
     download: true
 ---
 
